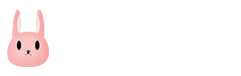
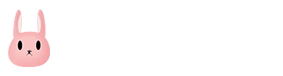
done!

Changed region(s): [[0.029, 0.1316, 0.2033, 0.8947], [0.029, 0.8158, 0.0871, 0.8947]]

diff --git a/WhatDoWeDoNow/GameScene.swift b/WhatDoWeDoNow/GameScene.swift
@@ -62,7 +62,7 @@ class GameScene: SKScene {
         addChild(goBack)
 
         you.size.height = TileHeight * 0.37623
-        you.size.width = TileWidth * 0.962556
+        you.size.width = self.size.width * 0.220629685
         you.position = CGPoint(x:self.size.width*(-0.35), y:self.size.height*0.48)
         bot.size.height = TileHeight * 0.37623
         bot.size.width = self.size.width * 0.220629685
